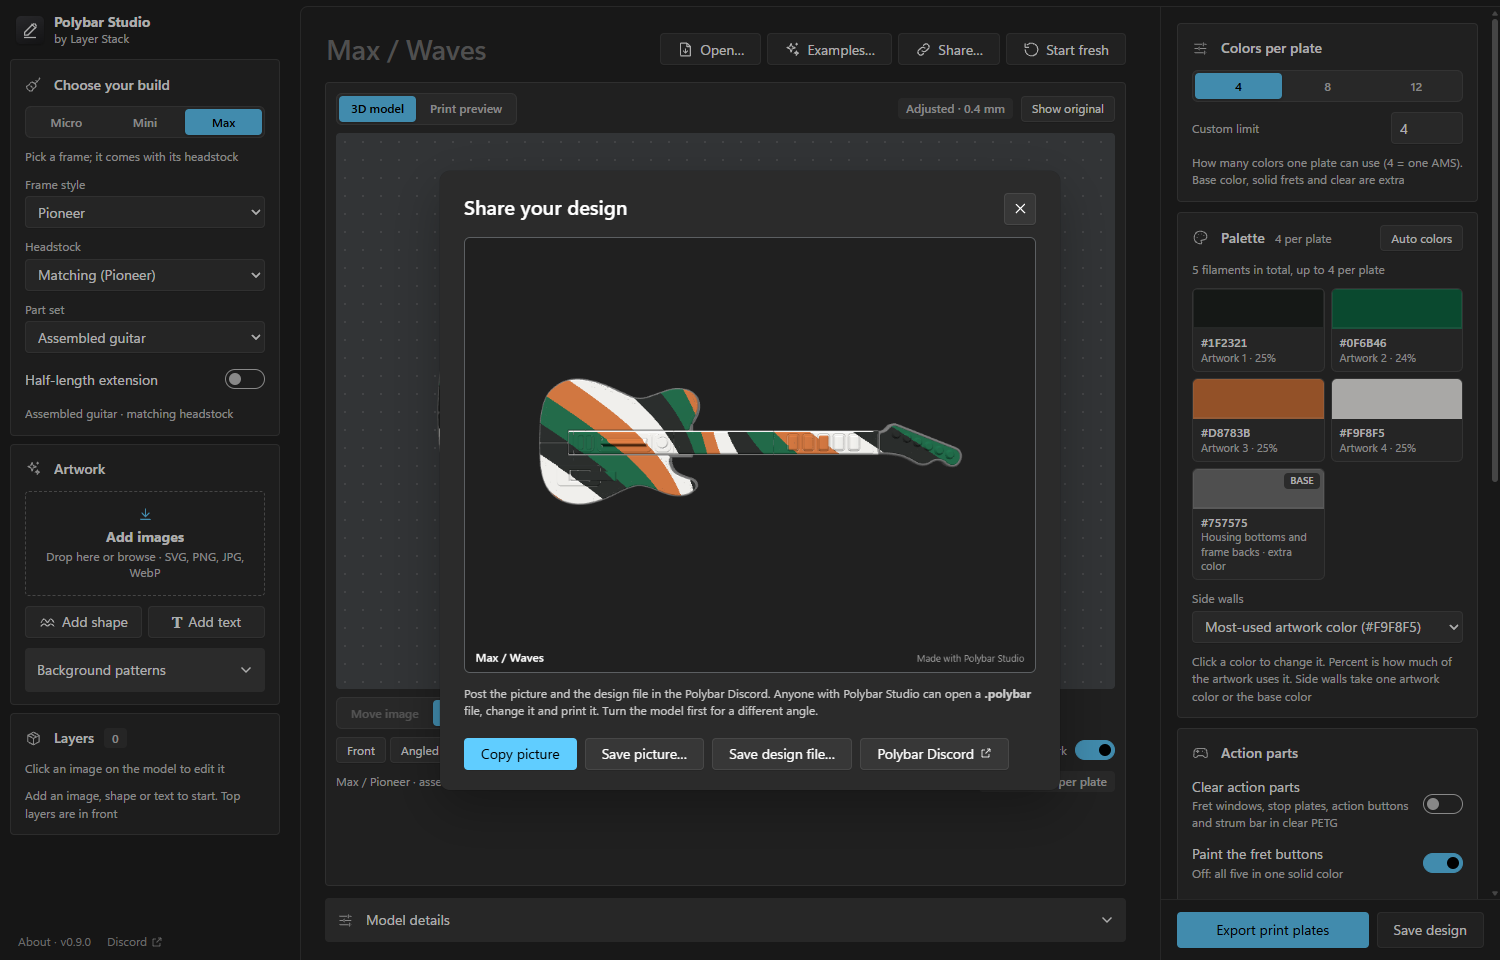
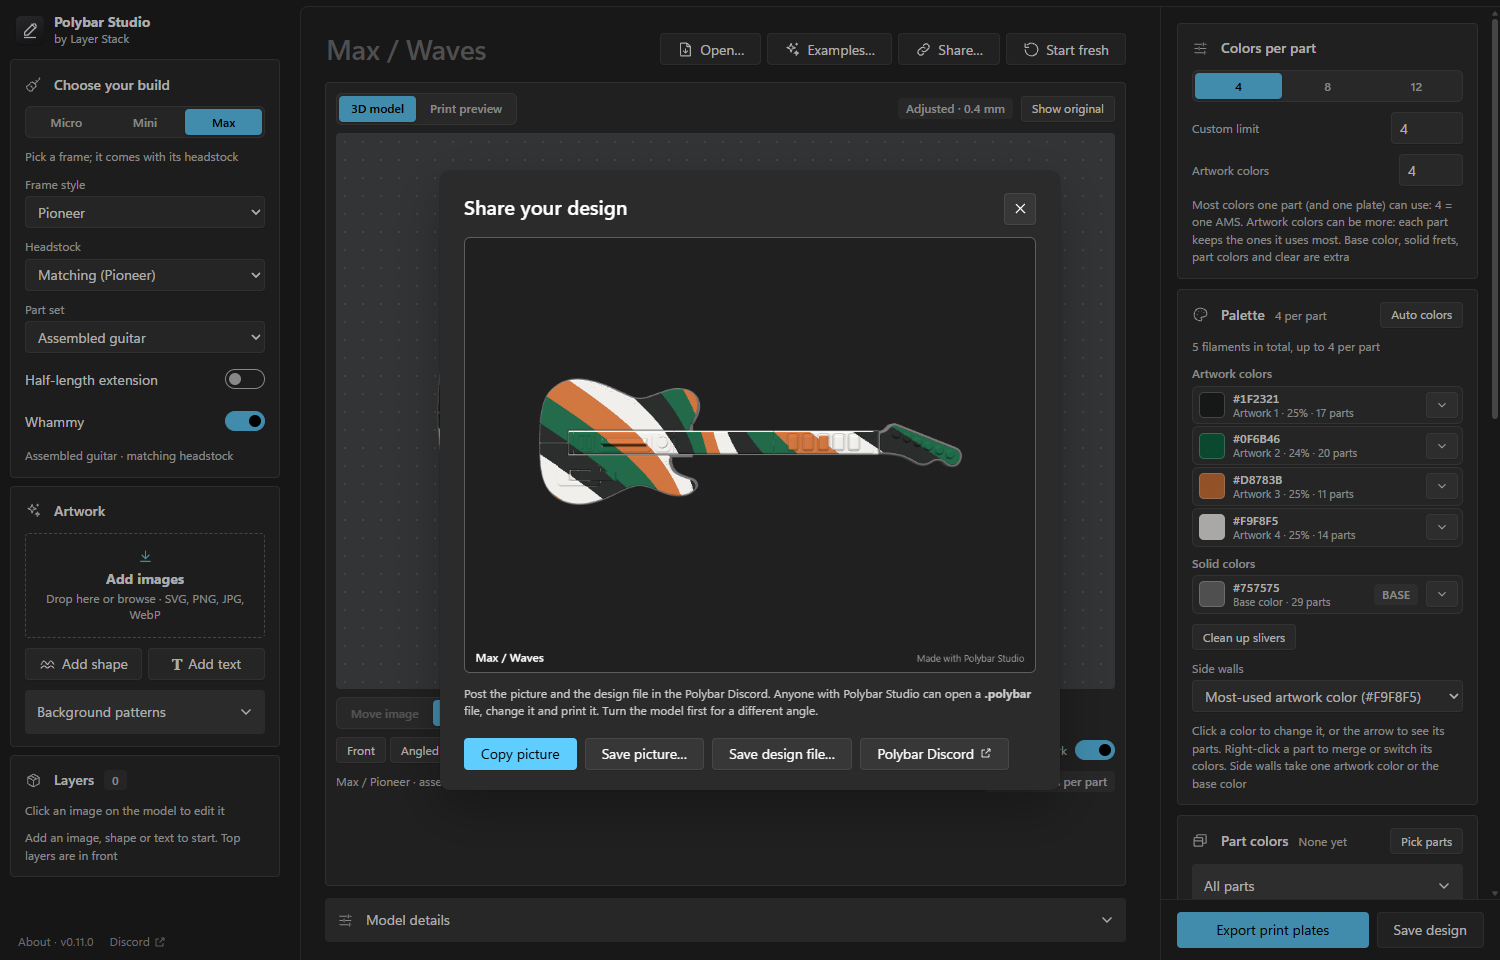
0.11.0: README (whammy switch, part colors, colors per part, palette list), screenshots

diff --git a/README.md b/README.md
@@ -2,7 +2,7 @@
 
 Paint your Polybar Micro, Mini or Max, then get a print-ready Bambu Studio project for your Bambu Lab printer.
 
-[![Download for Windows](https://img.shields.io/badge/Download_for_Windows-Polybar_Studio_0.10.0-0078D4?style=for-the-badge&logo=windows)](https://github.com/3D-Printed-Controller-Systems/Polybar-Studio-Release/releases/latest/download/Polybar-Studio-Windows.exe)
+[![Download for Windows](https://img.shields.io/badge/Download_for_Windows-Polybar_Studio_0.11.0-0078D4?style=for-the-badge&logo=windows)](https://github.com/3D-Printed-Controller-Systems/Polybar-Studio-Release/releases/latest/download/Polybar-Studio-Windows.exe)
 
 Windows 10 or 11, 64-bit · about 50 MB · works offline · [all releases](https://github.com/3D-Printed-Controller-Systems/Polybar-Studio-Release/releases) · share your designs in the [Polybar Discord](https://discord.gg/wBRdgxEGhe)
 
@@ -31,6 +31,7 @@ Under **Choose your build**, pick **Micro**, **Mini** or **Max**.
 - **Half-length extension** (a switch) makes any Mini or Max longer by 85 mm (on a Max it goes after the full extension). It works with every frame.
 - **Mini** and **Max** have a **Frame style** list (Airbourne, Diablo, Maverick, Nomad, Offset, Pioneer, Renegade, Vampire, Wizard). Choose **No frame** for the bare controller.
 - **Headstock:** a Max frame comes with its matching headstock. Any Mini or Max can take any family's headstock from the **Headstock** list (on a Mini it's off by default: it's sized for the Max).
+- **Whammy** (a switch, on a Max with a frame): turn it off if you don't want a whammy. The whammy chassis and bar then leave the preview and the export. A plug to close the opening is coming; until then the opening stays empty.
 - **Part set** (under Headstock) switches the preview between the assembled guitar, the frame only, and the headstock. Your artwork stays in the same place in every view. **Frame only** shows just the frame; artwork stops where the housing covers it on the finished guitar.
 
 Drag in the preview to rotate, scroll to zoom (it zooms toward the mouse pointer), right-drag to pan. Right-drag pans even while an image is selected, so you can zoom in on a horn or the headstock and move around while you place artwork. **Front**, **Angled** and **Back** jump to a view.
@@ -59,9 +60,21 @@ Drag in the preview to rotate, scroll to zoom (it zooms toward the mouse pointer
 
 ### 3. Pick your colors
 
-- **Colors per plate** is how many colors each print plate may use: 4 (one AMS), 8, 12, or a custom number. The artwork is reduced to fit. Auto colors only uses real colors from your artwork, not the blended shades along soft edges, so a higher limit can leave slots unused. The base color, single-color frets and clear don't count: they're extra filaments on their own plates.
-- **Palette** shows each color and how much of the artwork uses it. Click a swatch to pick from Bambu Lab's own **PLA Basic** and **PLA Matte** spool colors, or choose **Custom color…**. **Auto colors** rebuilds the palette from the artwork.
+- **Colors per part** is the most colors one printed part may use: 4 (one AMS), 8, 12, or a custom number. Every print plate stays within it too; the export adds plates when it needs to. The base color, single-color frets, parts in a color of their own and clear are extra filaments.
+- **Artwork colors** can be more than that, up to 16: your artwork keeps more colors overall, and each part keeps the ones covering most of it. Any other color on that part prints in its nearest kept color. The palette says how many parts this trims, and the 3D view shows exactly what will print.
+- **Palette** is a list with one row per filament: its color, how much of the artwork uses it, and how many parts print it. Click the color to pick from Bambu Lab's own **PLA Basic** and **PLA Matte** spool colors, or choose **Custom color…**. **Auto colors** rebuilds the palette from the artwork. Auto colors only uses real colors from your artwork, not the blended shades along soft edges.
+- Click a row's **arrow** to see the parts that print that color. Each part shows a dot for every color it prints, so you can spot multi-color parts, and **→ ●** when this color prints as another one there.
+- **Right-click a part** in that list (or click **⋯**) to change it on that part only:
+  - **Merge** the color into another color the part already prints.
+  - **Switch** it to any other artwork color.
+  - **Keep** it, when the color limit trimmed it from that part.
+  - **Give it its own color…**, **Show in 3D**, or **Reset to automatic**.
+- **Clean up slivers** merges colors covering less than 1% of a part (thin edges, a stripe just touching it) into the nearest color the part shows more of.
 - **BASE** (the base color) is the housing's bottom and lower surfaces (gray by default). **Side walls** picks the color of the painted pieces' sides: one artwork color or the base color.
+
+### Part colors
+
+Any part can have a solid color of its own, so you can print every part in a different color if you like. Click **Pick parts** (under the preview or in the **Part colors** card), then click a part on the model; **Ctrl**-click picks more. Click **Color…** to choose its color, or **Use default** to go back. **All parts** lists every part, including the color plates and pivot pins that aren't in the preview. Each color of its own is one more filament.
 
 ### 4. Action parts
 
@@ -103,7 +116,7 @@ It's off by default. When you export with light colors on those housings and a d
 Click **Export print plates**.
 
 - **Printer:** every Bambu Lab printer (A1, A1 mini, A2L, H2C, H2D, H2D Pro, H2S, P1P, P1S, P2S, X1, X1 Carbon, X1E, X2D). The project uses Bambu's own profiles for that printer and the nozzle chosen under Printability. If a piece is too big for the printer (a Micro housing on an A1 mini), the export says so.
-- The dialog shows what you'll get (plates for your printer and nozzle, up to your colors per plate) and the filaments to load.
+- The dialog shows what you'll get (plates for your printer and nozzle, up to your colors per part on each plate) and the filaments to load.
 - **Advanced** (folded by default):
   - **Which pieces?** Everything, only the colored pieces, only the clear pieces, or pieces you pick from the list, grouped by Strum case, Fret case, Extensions, Frame and Headstock.
   - **Assembly parts** (on by default): the color plates, power slider and pivot pins (and on a Micro the PCB braces) in the base color.
@@ -146,6 +159,8 @@ In the slicer, pick your actual filament profiles, check that each color goes to
 ## Releases
 
 Each release lists the installer's SHA-256 and the [Development](https://github.com/3D-Printed-Controller-Systems/Polybar-Studio-Development) commit it was built from.
+
+**0.11.0**: a **Whammy** switch on Max frames (turn it off to leave the whammy out); give **any part a color of its own**, picked on the model or from a list, so every part can be a different color; **more artwork colors than your per-part limit** (each part keeps the ones it uses most); a simpler **palette list** that shows which parts print each color, with right-click **Merge**, **Switch** and **Keep** per part; **Clean up slivers**.
 
 **0.10.0**: the examples are redrawn in fine detail (Sakura's notched petals, stamens and cherry bark; a ringed gas giant, comet and galaxy; brush-stroke skies and a village; snow-capped mountains, pines and a river; palms and wireframe mountains), and an example now redraws itself when you change the size, frame or headstock.
 
